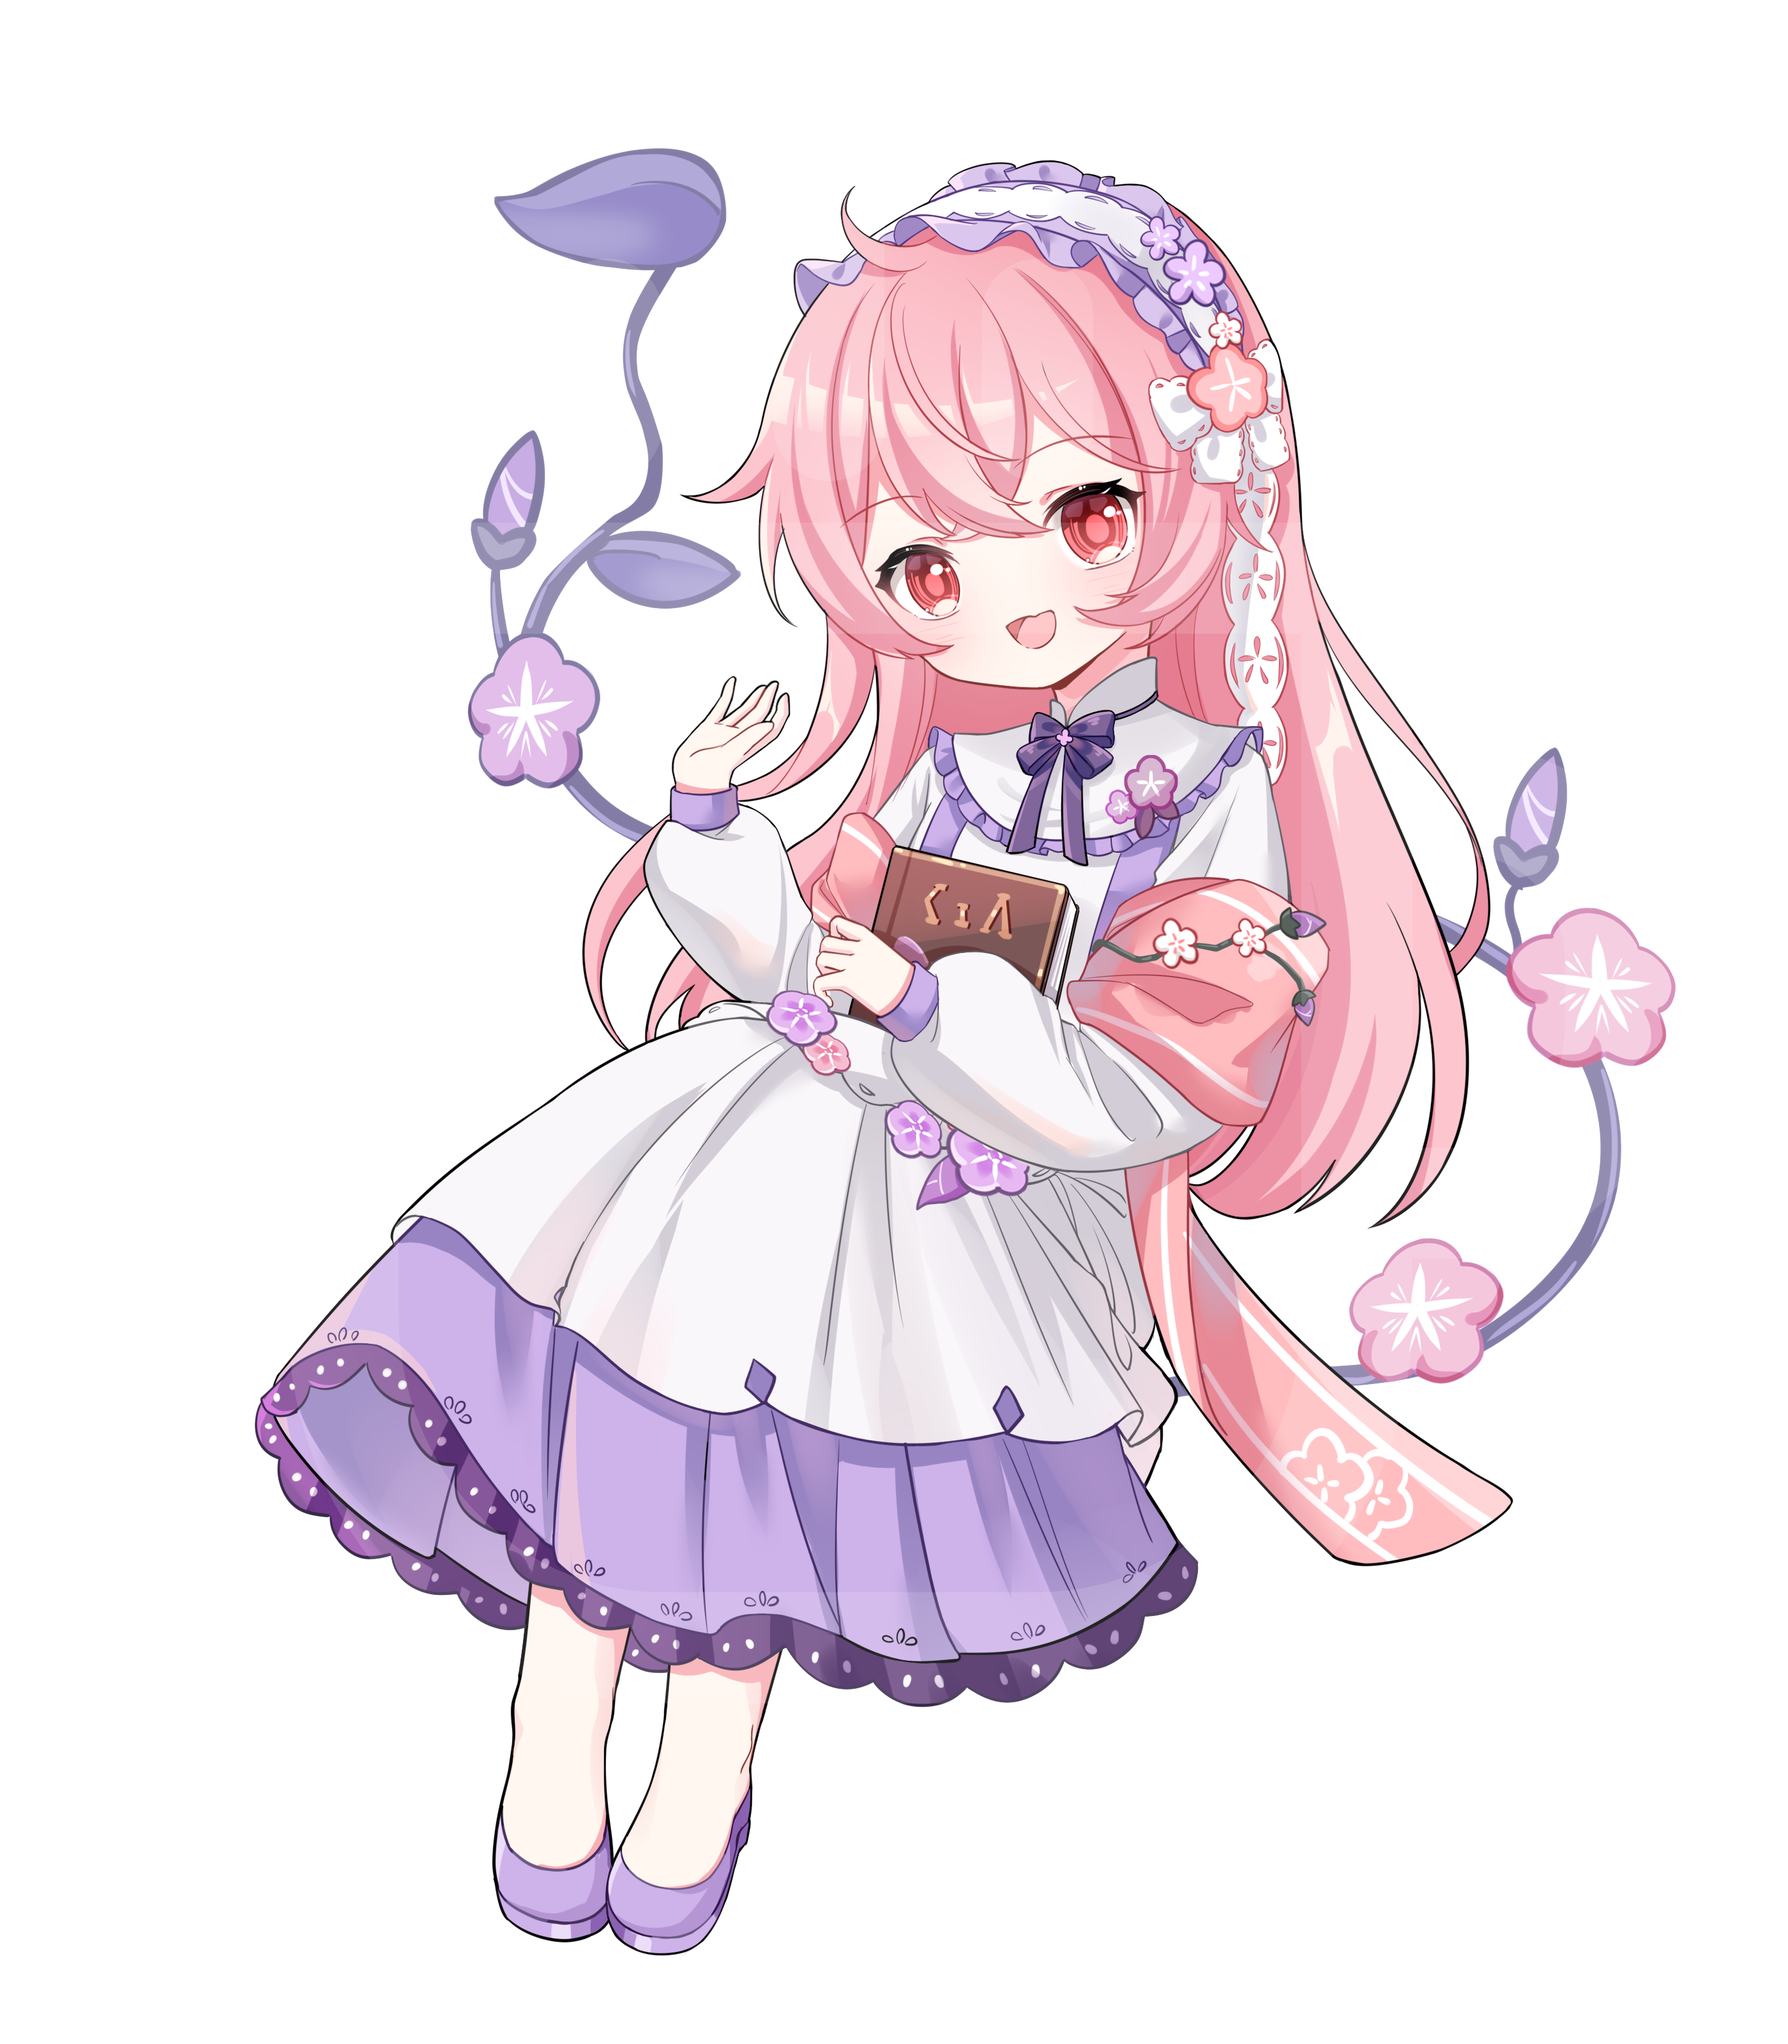
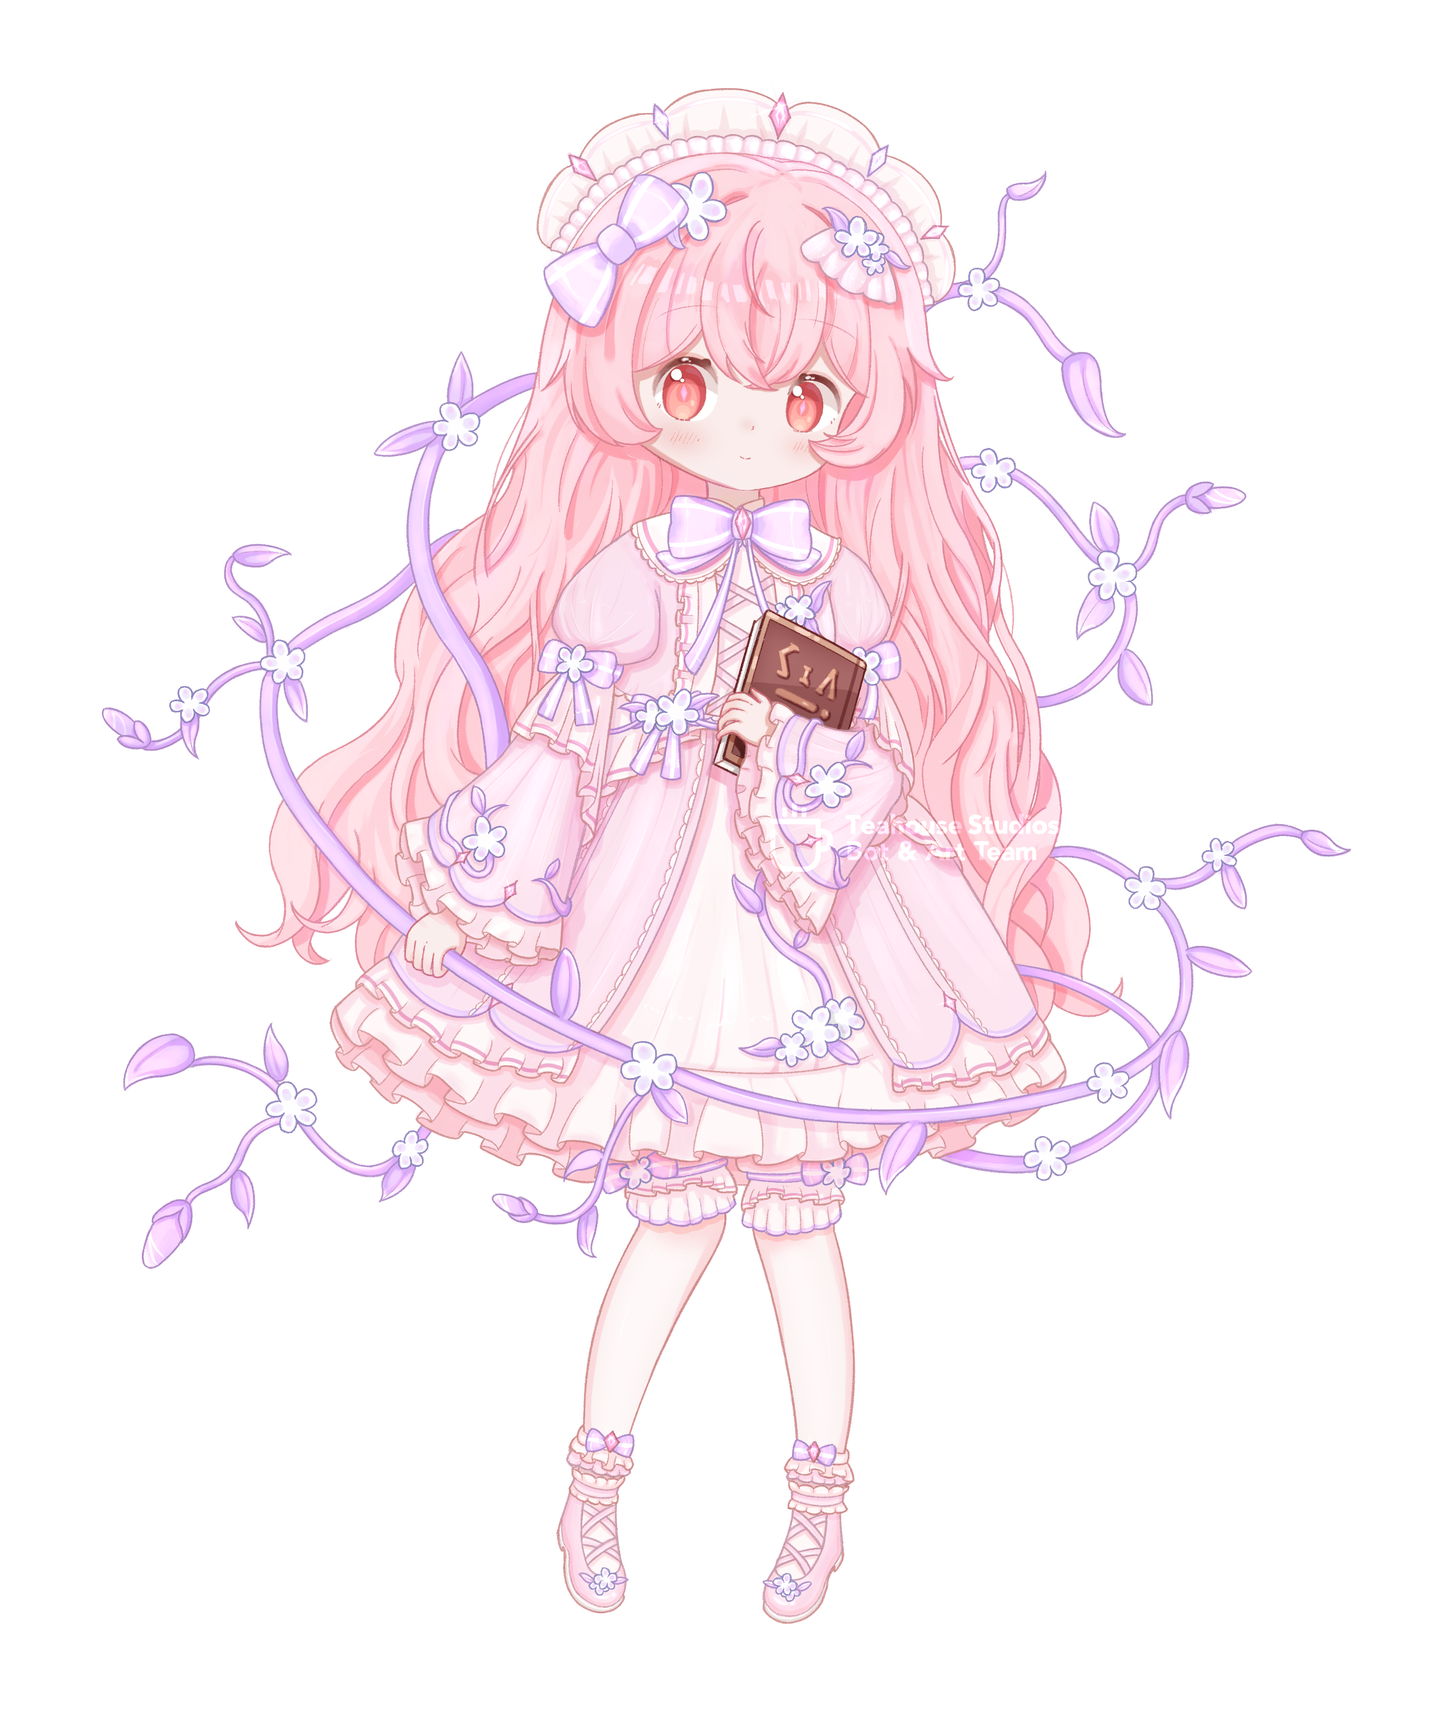
new dress for akaribot

diff --git a/README.md b/README.md
@@ -9,7 +9,7 @@
 
 ## 介绍
 
-**小可**是基于多个框架开发的可扩展、多平台机器人。图标由 [Rin 十一](https://mihuashi.com/profiles/75826?role=painter)绘制。
+**小可**是基于多个框架开发的可扩展、多平台机器人。当前形象由 [OasisAkari](https://github.com/OasisAkari) 绘制。
 
 目前小可还正在持续开发中。
 
